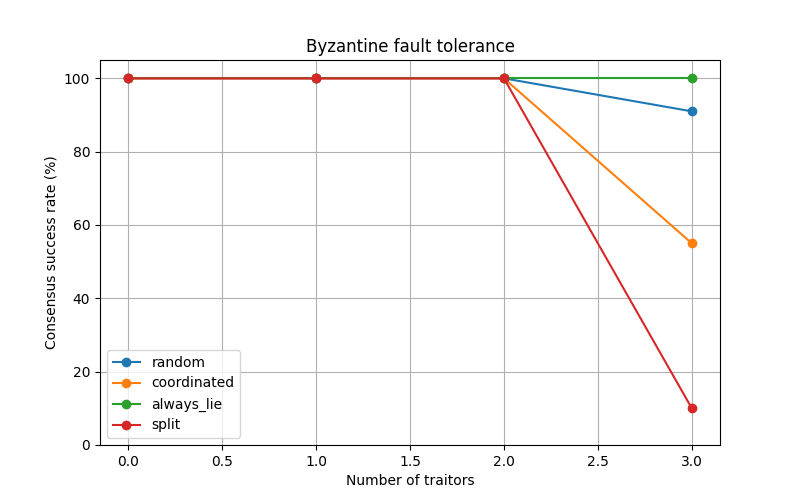
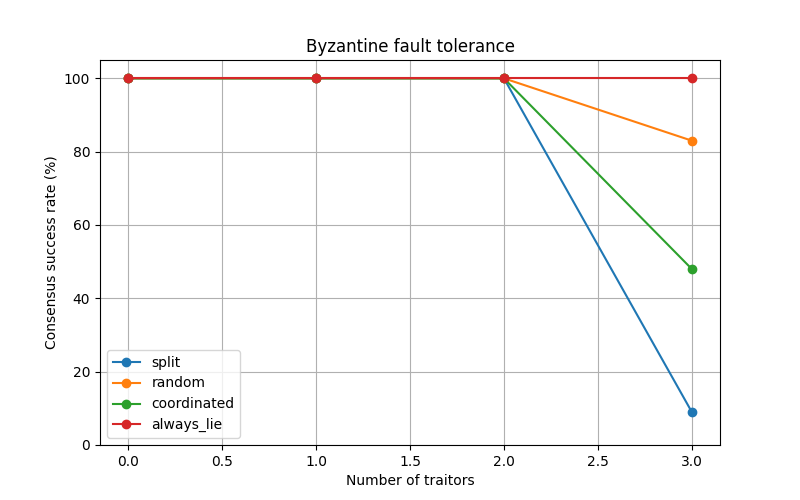
correct mistakes

diff --git a/src/traitor_strategies.py b/src/traitor_strategies.py
@@ -6,21 +6,21 @@ def opposite(order):
     return "ATTACK"
 
 
-def split_strategy(sender, receiver, original_order):
+def split_strategy(receiver):
     if receiver.general_id % 2 == 0:
         return "ATTACK"
     return "RETREAT"
 
 
-def random_strategy(sender, receiver, original_order):
+def random_strategy():
     return random.choice(["ATTACK", "RETREAT"])
 
 
-def always_lie_strategy(sender, receiver, original_order):
+def always_lie_strategy(original_order):
     return opposite(original_order)
 
 
-def coordinated_strategy(sender, receiver, original_order):
+def coordinated_strategy(sender, receiver):
     if sender.general_id < receiver.general_id:
         return "ATTACK"
     return "RETREAT"
@@ -28,15 +28,15 @@ def coordinated_strategy(sender, receiver, original_order):
 
 def traitor_message(strategy, sender, receiver, original_order):
     if strategy == "split":
-        return split_strategy(sender, receiver, original_order)
+        return split_strategy(receiver)
 
     if strategy == "random":
-        return random_strategy(sender, receiver, original_order)
+        return random_strategy()
 
     if strategy == "always_lie":
-        return always_lie_strategy(sender, receiver, original_order)
+        return always_lie_strategy(original_order)
 
     if strategy == "coordinated":
-        return coordinated_strategy(sender, receiver, original_order)
+        return coordinated_strategy(sender, receiver)
 
-    return split_strategy(sender, receiver, original_order)
+    return split_strategy(receiver)